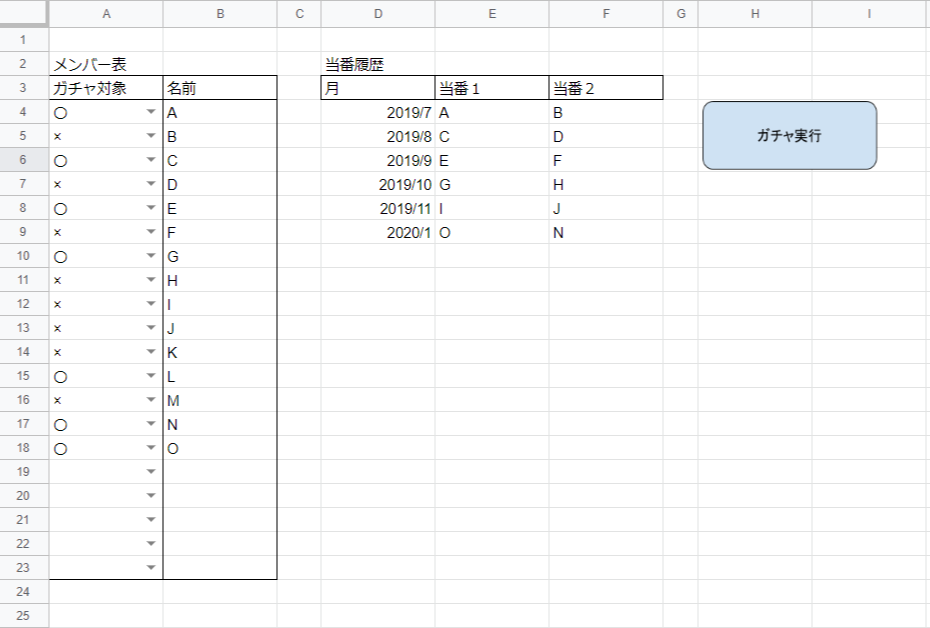
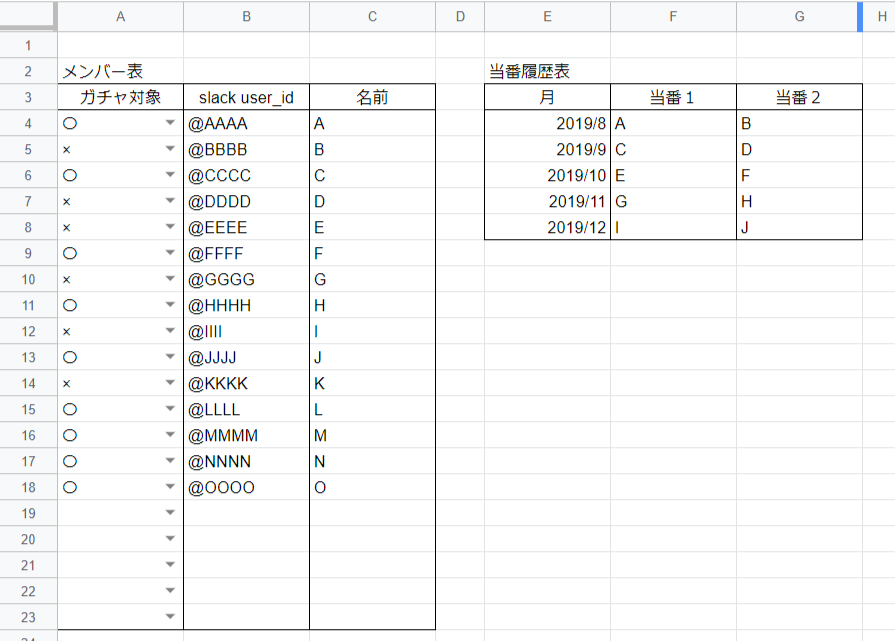
当番ガチャのメンバー表にslack_id列追加による改修

diff --git a/DutyGacha/DutyGacha.js b/DutyGacha/DutyGacha.js
@@ -12,11 +12,11 @@ function doPost(e) {
 // スプレッドシートのデータを元に当番ガチャを行い、結果をSlackに投稿する
 function dutyGacha() {
   // メンバー表のデータ部分のセル範囲
-  const memberDataCellRange = 'A4:B23';
+  const memberDataCellRange = 'A4:C23';
   // 当番履歴表の開始列
-  const historyDataColumnRangeStart = 'D';
+  const historyDataColumnRangeStart = 'E';
   // 当番履歴表の終了列
-  const historyDataColumnRangeEnd = 'F';
+  const historyDataColumnRangeEnd = 'G';
   // 当番履歴表の列範囲
   const historyDataColumnRange = historyDataColumnRangeStart + ':' + historyDataColumnRangeEnd;
   // ガチャから除外する履歴件数
@@ -34,7 +34,10 @@ function dutyGacha() {
     const insertRow = sheet.getRange(historyDataColumnRangeStart + sheet.getMaxRows()).getNextDataCell(SpreadsheetApp.Direction.UP).getRow() + 1;
     const insertRange = historyDataColumnRangeStart + insertRow + ':' + historyDataColumnRangeEnd + insertRow;
     const insertDataArr = createInsertData(dutyMemberList);
+    // スプレッドシートに当月当番データを書き込み
     sheet.getRange(insertRange).setValues(insertDataArr);
+    // スプレッドシートに書き込んだ行に罫線を引く
+    sheet.getRange(insertRange).setBorder(false, true, true, true, true, false);
   } catch (e) {
     var msg = 'エラーが発生しました：' + e.message + '\nfileName：' + e.fileName + '\nlineNumber：' + e.lineNumber + '\nstack：\n' + e.stack;
     Logger.log(msg);
@@ -59,13 +62,13 @@ function dutyGacha() {
   }
 }
 
-// メンバー表からガチャ参加メンバーを抽出して配列で返す
+// メンバー表からガチャ参加メンバーのslack_idと名前を抽出して、オブジェクトの配列で返す
 function getJoinMemberList(sheet, memberDataCellRange, dutyMemberNum) {
   const memberData = sheet.getRange(memberDataCellRange).getValues();
   var joinMemberList = [];
   memberData.map(function(data){
     if (data[0] === '〇') {
-      joinMemberList.push(data[1]);
+      joinMemberList.push({id: data[1], name: data[2]});
     }
   });
   if (joinMemberList.length < dutyMemberNum) {
@@ -97,9 +100,9 @@ function getHistoryMemberList(sheet, historyDataColumnRange, historyDataTargetNu
 
 // ガチャ参加メンバーから履歴メンバーを除外したものを配列で返す
 function getGachaMemberList(joinMemberList, historyMenberList, dutyMemberNum) {
-  const gachaMemberList = joinMemberList.filter(function(data){ return historyMenberList.indexOf(data) === -1});
+  const gachaMemberList = joinMemberList.filter(function(data){ return historyMenberList.indexOf(data.name) === -1});
   if (gachaMemberList.length < dutyMemberNum) {
-    throw new Error('ガチャ参加メンバーから履歴メンバーを除外した数が、抽選メンバー数より少ないです。ガチャ参加メンバーを増やしてください。');
+    throw new Error('ガチャ参加メンバーから履歴メンバーを除外した数が、抽選メンバー数より少ないです。ガチャ参加メンバーを増やしてください。'); 
   }
   return gachaMemberList;
 }
@@ -126,16 +129,18 @@ function random(length) {
 // Slack通知メッセージを作成して返す
 function createNoticeMsg(gachaMenber, dutyMemberList) {
   var noticeMsg = '';
-  dutyMemberList.forEach(function(member) {
-    noticeMsg += ":penguin:<ﾃﾞﾚﾚﾚﾚﾚﾃﾞﾃﾞﾝ!!　" + member + 'さん\n';
+  dutyMemberList.forEach(function(memberData) {
+    noticeMsg += ":penguin:<ﾃﾞﾚﾚﾚﾚﾚﾃﾞﾃﾞﾝ!!　" + "<" + memberData.id + "> さん\n";
   });
   return noticeMsg;
 }
 
-// スプレッドシートに記録する当月データの配列を返す
+// スプレッドシートに記録する当月データの二次元配列を返す
 function createInsertData(dutyMemberList) {
   var insertData = [Utilities.formatDate(new Date(), "JST", "yyyy/MM")];
-  insertData = insertData.concat(dutyMemberList);
+  dutyMemberList.forEach(function(memberData) {
+    insertData.push(memberData.name);
+  });
   const insertDataArr = [insertData];
   return insertDataArr;
 }

diff --git a/DutyGacha/README.md b/DutyGacha/README.md
@@ -13,13 +13,13 @@ OutgoingWebhookと連携させることで、Slackからトリガーワードで
 dutyGacha関数の最初に定義している以下の変数の値を、シートや状況に合わせて指定しておく。
 
 - memberDataCellRange
-　メンバー表のデータ部分のセル範囲（デフォルトはA4:B23）
+　メンバー表のデータ部分のセル範囲（デフォルトはA4:C23）
 
 - historyDataColumnRangeStart
-　当番履歴表の開始列（デフォルトはD）
+　当番履歴表の開始列（デフォルトはE）
 
 - historyDataColumnRangeEnd
-　当番履歴表の終了列（デフォルトはF）
+　当番履歴表の終了列（デフォルトはG）
 
 - historyDataTargetNum
 　過去何件分の履歴をガチャから除外するか（デフォルトは5）
